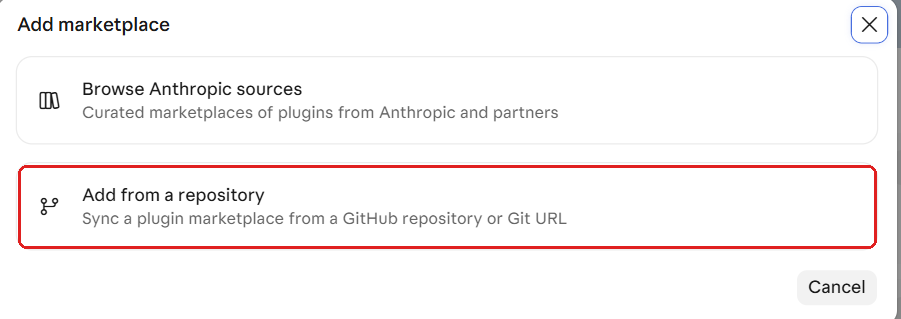
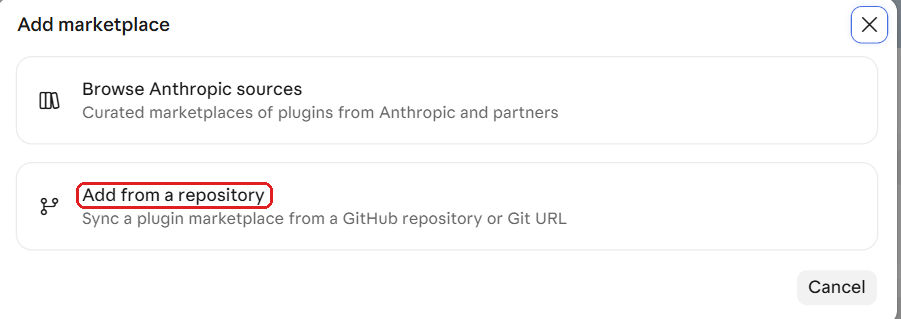
fix: review findings for 0.1.2
Claude-Session: https://claude.ai/code/session_013j5F7iaYY23MFZpVEK6Uq8

Changed region(s): [[0.0, 0.5078, 0.9634, 0.79], [0.0622, 0.5643, 0.3108, 0.6771], [0.9634, 0.5361, 0.9945, 0.7618]]

diff --git a/plugin/skills/share-feedback/SKILL.md b/plugin/skills/share-feedback/SKILL.md
@@ -27,7 +27,7 @@ Every label such as **Why:**, **Next:** is **bold** and starts on its own new li
    **Never put words in their mouth.** Never propose the idea, finish their sentence, offer a guess to confirm, or say "say yes if that's it". The draft uses their own words.
 3. **Add automatically, without asking.** The plugin version, read from `../../.claude-plugin/plugin.json` (`version`; if you cannot read it, write "unknown"), and the name of the AI tool being used, if you know it. Also fill **Context** (see `references/issue-format.md`) using only the allowed items listed there.
 4. **Work out the route** before showing the draft. If a GitHub tool or a signed-in `gh` command is available, the route is GitHub. Otherwise ask if they have a GitHub account. Yes: the route is a GitHub link. No: ask which they prefer, "create a free GitHub account" (follow `../start/references/github-account-guide.md`, then use the GitHub link) or "send it by email instead".
-5. **Privacy check, then show the full draft.** No user data is shared at any point. Before showing the draft, check every field, including their own words, and replace any name of an organization, person or project, email, link, file or sheet name, ID, event detail or number from their data with a general description (for example "a partner organization"). Tell them you did. Then show the full draft, including Context, in the layout of `references/issue-format.md`, for that route. For the GitHub routes always say exactly: "This issue will be public." For the email route say instead: "This will go by email to the maintainer of this plugin. It is not public." Ask them to confirm or change it. Nothing is sent or filed without their yes. If they change their mind, drop it kindly and send nothing.
+5. **Privacy check, then show the full draft.** No user data is shared at any point. Before showing the draft, do the Privacy check in `references/issue-format.md` on every field, including their own words. Repeat the check on any change they make, and show the draft again, before anything is sent. Then show the full draft, including Context, in the layout of `references/issue-format.md`, for that route. For the GitHub routes always say exactly: "This issue will be public." For the email route say instead: "This will go by email to the maintainer of this plugin. It is not public." Ask them to confirm or change it. Nothing is sent or filed without their yes. If they change their mind, drop it kindly and send nothing.
 6. **Send it** once they say yes:
    1. **GitHub tool or `gh`:** create the issue on `tejitpabari99/tejit-np-plugin` with the label `feedback`, and show them the link.
    2. **GitHub link:** give the pre-filled link built as described in `references/issue-format.md`, and tell them to look it over and click **Submit**.

diff --git a/plugin/skills/partner-event-finder/prompts/04-collect-events.md b/plugin/skills/partner-event-finder/prompts/04-collect-events.md
@@ -7,7 +7,7 @@ Read `references/calendar-event-format.md`, `references/sheet-schema.md`, and `m
    - Read each Active source, follow links one level, skip Facebook/Instagram.
    - Extract events in the window (`window_months`): name, type, start, end, time zone only if stated, venue, link, confidence. Drop past events. Never treat last year's date as this year's; report "no new date announced".
    - Compare with existing calendar events per the format file to decide add, update, or leave alone. Unsure = collect a question, write nothing. Never delete.
-3. **Add/update directly.** Do not ask whether to add the events. Add them to the project calendar, then report what was added and updated (see `templates/run-flow.md`), every round. On update rewrite only the part above the STAFF NOTES line and keep the rest exactly. Notifications off. Never delete. Update each source's Last checked and Last result.
-4. Ask any collected questions together, one at a time, with a suggested answer.
-5. **Report** in everyday words: added, updated (each "was ... now ..."), unchanged, answered, sources that could not be read. Name the calendar and offer `guides/sharing-the-calendar.md`. Show the sheet link (every time). **This completes one run.**
-6. Run `05-run-log.md` (phase `find-sources` + `collect-events`), then offer what next (see "What next" in `templates/run-flow.md`) and end with `templates/closing.md`.
+3. **Add/update directly.** Do not ask whether to add the events. Add them to the project calendar, without reporting yet (the report is step 5, after any questions). On update rewrite only the part above the STAFF NOTES line and keep the rest exactly. Notifications off. Never delete. Update each source's Last checked and Last result.
+4. Ask any collected questions together, one at a time, with a suggested answer. Do not report before this.
+5. **Report** in everyday words: added, updated (each "was ... now ..."), unchanged, answered, sources that could not be read. Use the report wording in `templates/run-flow.md` (without its "What next?" part), every round. Name the calendar and offer `guides/sharing-the-calendar.md`. Show the sheet link (every time). **This completes one run.**
+6. Run `05-run-log.md` (phase `find-sources` + `collect-events`), then offer what next (the "What next?" part of `templates/run-flow.md`) and end with `templates/closing.md`.

diff --git a/plugin/skills/start/references/github-step.md b/plugin/skills/start/references/github-step.md
@@ -12,7 +12,7 @@ Check the root `metadata.txt` (`root-metadata.md`) for `github_step: done`, and 
 1. **Quietly check.** If a GitHub tool is loaded, or a signed-in `gh` command works, check whether the person is signed in. Say nothing technical about the check.
 2. **Signed in, or they say they have an account.** Go to the star prompt (step 5).
 3. **Cannot tell.** Ask: "**(optional)** Do you have a GitHub account? It lets you follow updates to these tools and send feedback. If you don't have one yet, I'd be happy to help you create one." Options, in this order: Yes (recommended), No, Skip (last). Yes goes to step 5. No goes to step 4. Skip goes to step 6.
-4. **No account.** Say: "**(optional)** I recommend creating a free GitHub account so you can track changes, update the package, and give feedback. It is optional and takes about a minute. Would you like to do that?"
+4. **No account.** Say: "**(optional)** I recommend creating a free GitHub account so you can keep track of it, see what's changing and send feedback. It is optional and takes about a minute. Would you like to do that?"
    - Yes: follow `github-account-guide.md`, one step at a time, and wait until they say they are done. Then go to step 5.
    - No: reply warmly ("No problem at all, you can do it any time.") and go to step 6.
 5. **Star prompt.** Say: "**(optional)** Would you like to star this project on GitHub? It's a quick way to keep track of it, see what's changing and send feedback. Say yes and I'll take care of it." If their account is not confirmed, add: "If you don't have a GitHub account yet, I'd be happy to help you create one." If you use a question widget, the options are "Yes (recommended)" then "Not now" last. Never offer or mention skipping in this prompt, and do not talk about confidence or proving anything.

diff --git a/README.md b/README.md
@@ -5,7 +5,7 @@
 An open-source plugin for AI assistants. It adds small, guided helpers that take repetitive work off a nonprofit team's plate. Created by Tejit Pabari.
 
 ## For AI assistants: helping someone onboard
-If someone shares this link and asks for help installing or onboarding, have them add this repository as a plugin marketplace and install from it, following [docs/install.md](docs/install.md) for their tool. Do not copy, download, recreate or paste the plugin's files or skills into their project, chat or settings, because a copy never receives updates or fixes. Walk them through it one step at a time in plain words. Turn on automatic updates where the tool offers it. Only if their tool truly has no marketplace option, use the "Other tools" route in docs/install.md and tell them it will not update by itself.
+If someone shares this link and asks for help installing or onboarding, have them add this repository as a plugin marketplace and install from it, following [docs/install.md](https://github.com/tejitpabari99/tejit-np-plugin/blob/main/docs/install.md) for their tool. Do not copy, download, recreate or paste the plugin's files or skills into their project, chat or settings, because a copy never receives updates or fixes. Walk them through it one step at a time in plain words. Turn on automatic updates where the tool offers it. Only if their tool truly has no marketplace option, use the "Other tools" route in docs/install.md and tell them it will not update by itself.
 
 ## Who it is for
 Nonprofit staff and volunteers who are not technical. Every step is explained in plain words, and nothing is shared or sent without your yes.

diff --git a/plugin/skills/share-feedback/references/issue-format.md b/plugin/skills/share-feedback/references/issue-format.md
@@ -37,7 +37,7 @@ Allowed items only: which skill; which step or phase they were on; whether it wa
 Never include: names of organizations, partners, people or projects; emails; links; file, sheet, folder or calendar names; IDs; event details; numbers from their data; anything pasted from their files.
 
 ## Privacy
-No user data is shared at any point. Before showing the draft, check all fields, including their own words, and replace any such detail with a general description (for example "a partner organization"). Tell them you did.
+No user data is shared at any point. Before showing the draft, check every field, including their own words, and replace any name of an organization, person or project, email, link, file, sheet or folder name, ID, event detail or number from their data with a general description (for example "a partner organization"). Tell them you replaced it, and what you replaced it with in general terms. Repeat this check on any change they make, and show the draft again before anything is sent.
 
 ## Creating it directly
 When a GitHub tool or signed-in `gh` command is available, create the report on `tejitpabari99/tejit-np-plugin` with the title and body above and the label `feedback`. Show the link it returns.

diff --git a/plugin/skills/partner-event-finder/SKILL.md b/plugin/skills/partner-event-finder/SKILL.md
@@ -12,7 +12,7 @@ metadata:
 Decide which phase applies, then read ONLY that phase's prompt file. Templates in `templates/` are the wording to use, filling in `<placeholders>`.
 
 ## Who you are talking to
-Nonprofit staff who probably have never used an AI assistant, connectors or skills. Plain words, one question at a time, a suggested answer for every question. Reassure: nothing happens without their yes, and their original files are never changed.
+Nonprofit staff who probably have never used an AI assistant, connectors or skills. Plain words, one question at a time, a suggested answer for every question. Reassure: nothing is shared or sent without their yes, events go only to the project calendar, and their original files are never changed.
 
 ## Always-on rules
 1. **Formatting.** Every label (**Why:**, **What:**, **What I'll do:**, **Next:**, **Done:**) is **bold** and starts on its own new line, with a blank line between items. Never run labels together in one paragraph.

diff --git a/plugin/skills/partner-event-finder/templates/run-flow.md b/plugin/skills/partner-event-finder/templates/run-flow.md
@@ -10,7 +10,9 @@
 ## After finding sources
 Show a short table (organization, what I found). Do not ask whether to add the events: add them directly to the project calendar, then report (next section). Unsure matches become a question and write nothing.
 
-## After adding events: report, then what next
+## After adding events: report (step 5), then what next (step 6)
+Show this once, after any collected questions, not when the events are added.
+
 > **See the results here:** [<project name> sources](<sheet link>)
 >
 > **Calendar:** I added <A> events and updated <U>.
